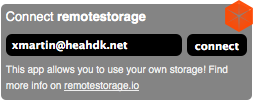
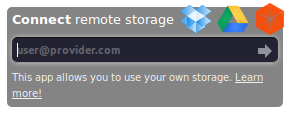
corrections in episodes 6-8

diff --git a/adventures/7/Adding-remote-storage-to-unhosted-web-apps.html b/adventures/7/Adding-remote-storage-to-unhosted-web-apps.html
@@ -33,15 +33,16 @@
         <a href="http://remotestorage.io/">remoteStorage</a>, a protocol for allowing unhosted web apps to use
         your personal server as cloud storage.</p>
       <p>The protocol by which a client interacts with a remoteStorage server is described in
-        <a href="https://tools.ietf.org/id/draft-dejong-remotestorage-01.txt">draft-dejong-remotestorage-01</a>,
-        an IETF Internet-Draft that is currently in version -01. At its core are the http protocol, TLS, and
+        <a href="https://tools.ietf.org/id/draft-dejong-remotestorage-03.txt">draft-dejong-remotestorage-03</a>,
+        an IETF Internet-Draft that is currently in version -03. At its core are the http protocol, TLS, and
         <a href="https://en.wikipedia.org/wiki/Cross-origin_resource_sharing">CORS headers</a>.</p>
       <p>A remoteStorage server allows you to store, retrieve, and remove documents in a directory structure,
         using http PUT, GET, and DELETE verbs, respectively. It will respond with
         CORS headers in the http response, so
         that your browser will not forbid your web app from making requests to the storage origin.</p>
       <p>As an app developer, you will not have to write these http requests yourself. You can use the
-        <a href="http://remotestorage.io/integrate/">remotestorage.js</a> library.</p>
+        <a href="http://remotestorage.io/integrate/">remotestorage.js</a> library (which now also has
+        experimental support for cross-origin Dropbox and GoogleDrive storage).</p>
       
       <h3>Reusing reusable user data</h3>
       <p>The remotestorage.js library is divided up into modules (documents, music, pictures, ...),
@@ -56,7 +57,8 @@
         so the part after the '#' sign. That means that the token is not even sent to the statics-server that happens to serve up the
         unhosted web app. Of course the app could contain code that does post the data there, but at least such token leaking would be
         detectable.</p>
-      <p>By default, OAuth requires each relying party to register with each service provider, and the remoteStorage spec states that
+      <p>By default, OAuth requires each relying party to register with each service provider, and the remoteStorage spec
+        <a href="http://tools.ietf.org/html/draft-dejong-remotestorage-03#page-10">states</a> that
         servers "MAY require the user to register applications as OAuth clients
         before first use", but in practice most remoteStorage servers allow their users full freedom in their choice of which apps to 
         connect with.</p>
@@ -83,10 +85,11 @@
         is then effectuated by calling a method in one of the remoteStorage modules. So far, nothing still has changed on the screen.</p>
       <p>If we were to completely follow the V-model, then the change would first move further down to the storage server, and then ripple
         all the way back up (in the shape of a letter V), until it reaches the actual DOM elements again, and updates their visual state.</p>
-      <p>But we want our apps to be responsive, even under bad network connections. In any case, waiting an entire http round-trip time before
+      <p>But we want our apps to be fast, even under bad network connections. In any case, waiting an entire http round-trip time before
         giving the user feedback about an action would generally take too long, even when the network conditions are good.</p>
       <p>This is why remoteStorage modules receive change events about outgoing changes at the moment the change travels out over the wire,
-        and not after the http request completes. We jokingly call this concept Asynchronous Synchronization: the app does not have to wait
+        and not after the http request completes. We jokingly call this concept
+        <a href="https://github.com/offlinefirst/research/issues/9">Asynchronous Synchronization</a>: the app does not have to wait
         for synchronization to finish; synchronization with the server happens asynchronously, in the background.</p>
       
       <h3>Two easy ways to connect at runtime</h3>
@@ -122,7 +125,7 @@
         <a href="https://github.com/michielbdejong/owncloud-owa">ownCloud</a>):</p>
       <img src="storage-first.png" />
       <h3>Featured apps</h3>
-      <p>The remotestorage.js library reached its first beta version (labeled 0.7.0) last week, and we have collected a number of
+      <p>The remotestorage.js library had just reached its first beta version (labeled 0.7.0) at the time of writing (it is now at version 0.10), and we have collected a number of
         <a href="https://unhosted.org/apps/">featured apps</a> that use this version of the library. So far, I am using the
         <a href="https://music-unhosted.5apps.com/">music</a>, <a href="https://editor-michiel.5apps.com/">editor</a> and
         <a href="https://grouptabs-xmartin.5apps.com/">grouptabs</a> apps for my real music-listening, text-editing, and peer-to-peer bookkeeping
@@ -133,7 +136,7 @@
         <a href="https://social-unhosted.5apps.com/">number</a> of
         <a href="https://todo-unhosted.5apps.com/">demo</a>
         <a href="http://myfavoritedrinks.5apps.com/">apps</a>. If you don't have a remoteStorage account yet, you can get one at
-        <a href="https://5apps.com/">5apps</a> or at <a href="https://heahdk.net/">heahdk</a>. For more options and more info
+        <a href="https://5apps.com/">5apps</a>. For more options and more info
         about remoteStorage in general, see <a href="http://remotestorage.io/">remotestorage.io</a>.</p>
       <p>After you have used the <a href="https://todo-unhosted.5apps.com">todo app</a> to add some tasks to your remote storage, try out the 
         <a href="http://shybyte.github.io/unhosted-time-tracker/">unhosted time tracker</a> app. You will see it retrieve your task list from

diff --git a/adventures/7/source.html b/adventures/7/source.html
@@ -7,15 +7,16 @@
         <a href="http://remotestorage.io/">remoteStorage</a>, a protocol for allowing unhosted web apps to use
         your personal server as cloud storage.</p>
       <p>The protocol by which a client interacts with a remoteStorage server is described in
-        <a href="https://tools.ietf.org/id/draft-dejong-remotestorage-01.txt">draft-dejong-remotestorage-01</a>,
-        an IETF Internet-Draft that is currently in version -01. At its core are the http protocol, TLS, and
+        <a href="https://tools.ietf.org/id/draft-dejong-remotestorage-03.txt">draft-dejong-remotestorage-03</a>,
+        an IETF Internet-Draft that is currently in version -03. At its core are the http protocol, TLS, and
         <a href="https://en.wikipedia.org/wiki/Cross-origin_resource_sharing">CORS headers</a>.</p>
       <p>A remoteStorage server allows you to store, retrieve, and remove documents in a directory structure,
         using http PUT, GET, and DELETE verbs, respectively. It will respond with
         CORS headers in the http response, so
         that your browser will not forbid your web app from making requests to the storage origin.</p>
       <p>As an app developer, you will not have to write these http requests yourself. You can use the
-        <a href="http://remotestorage.io/integrate/">remotestorage.js</a> library.</p>
+        <a href="http://remotestorage.io/integrate/">remotestorage.js</a> library (which now also has
+        experimental support for cross-origin Dropbox and GoogleDrive storage).</p>
       
       <h3>Reusing reusable user data</h3>
       <p>The remotestorage.js library is divided up into modules (documents, music, pictures, ...),
@@ -30,7 +31,8 @@
         so the part after the '#' sign. That means that the token is not even sent to the statics-server that happens to serve up the
         unhosted web app. Of course the app could contain code that does post the data there, but at least such token leaking would be
         detectable.</p>
-      <p>By default, OAuth requires each relying party to register with each service provider, and the remoteStorage spec states that
+      <p>By default, OAuth requires each relying party to register with each service provider, and the remoteStorage spec
+        <a href="http://tools.ietf.org/html/draft-dejong-remotestorage-03#page-10">states</a> that
         servers "MAY require the user to register applications as OAuth clients
         before first use", but in practice most remoteStorage servers allow their users full freedom in their choice of which apps to 
         connect with.</p>
@@ -57,10 +59,11 @@
         is then effectuated by calling a method in one of the remoteStorage modules. So far, nothing still has changed on the screen.</p>
       <p>If we were to completely follow the V-model, then the change would first move further down to the storage server, and then ripple
         all the way back up (in the shape of a letter V), until it reaches the actual DOM elements again, and updates their visual state.</p>
-      <p>But we want our apps to be responsive, even under bad network connections. In any case, waiting an entire http round-trip time before
+      <p>But we want our apps to be fast, even under bad network connections. In any case, waiting an entire http round-trip time before
         giving the user feedback about an action would generally take too long, even when the network conditions are good.</p>
       <p>This is why remoteStorage modules receive change events about outgoing changes at the moment the change travels out over the wire,
-        and not after the http request completes. We jokingly call this concept Asynchronous Synchronization: the app does not have to wait
+        and not after the http request completes. We jokingly call this concept
+        <a href="https://github.com/offlinefirst/research/issues/9">Asynchronous Synchronization</a>: the app does not have to wait
         for synchronization to finish; synchronization with the server happens asynchronously, in the background.</p>
       
       <h3>Two easy ways to connect at runtime</h3>
@@ -96,7 +99,7 @@
         <a href="https://github.com/michielbdejong/owncloud-owa">ownCloud</a>):</p>
       <img src="storage-first.png" />
       <h3>Featured apps</h3>
-      <p>The remotestorage.js library reached its first beta version (labeled 0.7.0) last week, and we have collected a number of
+      <p>The remotestorage.js library had just reached its first beta version (labeled 0.7.0) at the time of writing (it is now at version 0.10), and we have collected a number of
         <a href="https://unhosted.org/apps/">featured apps</a> that use this version of the library. So far, I am using the
         <a href="https://music-unhosted.5apps.com/">music</a>, <a href="https://editor-michiel.5apps.com/">editor</a> and
         <a href="https://grouptabs-xmartin.5apps.com/">grouptabs</a> apps for my real music-listening, text-editing, and peer-to-peer bookkeeping
@@ -107,7 +110,7 @@
         <a href="https://social-unhosted.5apps.com/">number</a> of
         <a href="https://todo-unhosted.5apps.com/">demo</a>
         <a href="http://myfavoritedrinks.5apps.com/">apps</a>. If you don't have a remoteStorage account yet, you can get one at
-        <a href="https://5apps.com/">5apps</a> or at <a href="https://heahdk.net/">heahdk</a>. For more options and more info
+        <a href="https://5apps.com/">5apps</a>. For more options and more info
         about remoteStorage in general, see <a href="http://remotestorage.io/">remotestorage.io</a>.</p>
       <p>After you have used the <a href="https://todo-unhosted.5apps.com">todo app</a> to add some tasks to your remote storage, try out the 
         <a href="http://shybyte.github.io/unhosted-time-tracker/">unhosted time tracker</a> app. You will see it retrieve your task list from

diff --git a/adventures/8/Collecting-and-organizing-your-data.html b/adventures/8/Collecting-and-organizing-your-data.html
@@ -102,7 +102,8 @@ server. At some point we will probably want to build publishing apps that connec
 To make your data available through a remoteStorage API, install one of the remoteStorage-compatible personal data servers listed under 'host your own storage'
   on <a href="http://remotestorage.io/get/">remotestorage.io/get/</a>. I went for the ownCloud one here, because (like the php-remoteStorage one) it maps data
   directly onto the filesystem (it
-uses extended attributes to store the Content-Types). This means you can just import data onto your remoteStorage account by copying it onto your
+uses extended attributes to store the Content-Types). Nowadays you would probably go for
+<a href="https://github.com/jcoglan/restore">reStore</a> instead, because it's easier to get working. If you just want to get started quickly with remoteStorage, try the <a href="https://github.com/remotestorage/starter-kit">starter-kit</a>. This means you can just import data onto your remoteStorage account by copying it onto your
   remoteStorage-stick. Do make sure your remoteStorage-stick is formatted with a filesystem that supports extended file attributes.</p>
 
 <h3>Export your data from Google, Facebook and Twitter</h3>
@@ -133,7 +134,7 @@ uses extended attributes to store the Content-Types). This means you can just im
   alert(screenNames);
 </code></pre>
 <p>Do make sure you scroll down first to get all the accounts in view.
-  You could also go through the api of course (see <a href="../5/Facebook-and-Twitter-from-nodejs.html">episode 5</a>).</p>
+  You could also go through the api of course (see <a href="../5/Facebook-and-Twitter-from-nodejs.html">episode 5</a>), and nowadays Twitter also lets you download a zip file from the <a href="https://twitter.com/settings/account">account settings</a>.</p>
 
   <h3>Converting your data to web-ready format</h3>
   <p>Although you probably want to keep the originals as well, it makes sense to convert all your photos to a 50Kb "web size". If
@@ -162,7 +163,8 @@ uses extended attributes to store the Content-Types). This means you can just im
   
   <h3>Playing your music through your browser</h3>
   <p>If you're setting up your remoteStorage server to serve your music files, then make sure you put them under <code>/public/music/</code> on your
-    remoteStorage, so you can use François' <a href="https://music-unhosted.5apps.com/">Unhosted Music Player</a>. Otherwise, you can also use <code>file:///</code>
+    remoteStorage, so you can use François' <a href="https://music-unhosted.5apps.com/">Unhosted Music Player</a>. Otherwise,
+you can also store your music in IndexedDB using Mozilla's <a href="http://mozilla.github.io/localForage/#setitem">localForage</a> library, or use <code>file:///</code>
     URLs to play your music. In the folder containing the files, simply add an html file that acts as a playlist app for them:
 <pre><code>
 &lt;!DOCTYPE html>
@@ -214,7 +216,7 @@ uses extended attributes to store the Content-Types). This means you can just im
   photo album designs. You can create photo albums that mix videos in them, using the html5 <code>&lt;video></code> tag,
   and even add css animations, svg graphics, 3D effects, and interactive navigation features to your photo albums and 
   souvenir scrapbooks. Maybe 
-  even some make some sound recordings when you are on holiday, and add them into a your next
+  even make some sound recordings when you are on holiday, and add them into your next
   "photo album".</p>
 <p>I also found that so far, it has been far more important to me to have all my imported contacts in <em>some</em> format
   on my remoteStorage, even if it is just a text file that I search through with Ctrl-F, than to necessarily have a polished

diff --git a/adventures/8/source.html b/adventures/8/source.html
@@ -76,7 +76,8 @@ server. At some point we will probably want to build publishing apps that connec
 To make your data available through a remoteStorage API, install one of the remoteStorage-compatible personal data servers listed under 'host your own storage'
   on <a href="http://remotestorage.io/get/">remotestorage.io/get/</a>. I went for the ownCloud one here, because (like the php-remoteStorage one) it maps data
   directly onto the filesystem (it
-uses extended attributes to store the Content-Types). This means you can just import data onto your remoteStorage account by copying it onto your
+uses extended attributes to store the Content-Types). Nowadays you would probably go for
+<a href="https://github.com/jcoglan/restore">reStore</a> instead, because it's easier to get working. If you just want to get started quickly with remoteStorage, try the <a href="https://github.com/remotestorage/starter-kit">starter-kit</a>. This means you can just import data onto your remoteStorage account by copying it onto your
   remoteStorage-stick. Do make sure your remoteStorage-stick is formatted with a filesystem that supports extended file attributes.</p>
 
 <h3>Export your data from Google, Facebook and Twitter</h3>
@@ -107,7 +108,7 @@ uses extended attributes to store the Content-Types). This means you can just im
   alert(screenNames);
 </code></pre>
 <p>Do make sure you scroll down first to get all the accounts in view.
-  You could also go through the api of course (see <a href="../5/Facebook-and-Twitter-from-nodejs.html">episode 5</a>).</p>
+  You could also go through the api of course (see <a href="../5/Facebook-and-Twitter-from-nodejs.html">episode 5</a>), and nowadays Twitter also lets you download a zip file from the <a href="https://twitter.com/settings/account">account settings</a>.</p>
 
   <h3>Converting your data to web-ready format</h3>
   <p>Although you probably want to keep the originals as well, it makes sense to convert all your photos to a 50Kb "web size". If
@@ -136,7 +137,8 @@ uses extended attributes to store the Content-Types). This means you can just im
   
   <h3>Playing your music through your browser</h3>
   <p>If you're setting up your remoteStorage server to serve your music files, then make sure you put them under <code>/public/music/</code> on your
-    remoteStorage, so you can use François' <a href="https://music-unhosted.5apps.com/">Unhosted Music Player</a>. Otherwise, you can also use <code>file:///</code>
+    remoteStorage, so you can use François' <a href="https://music-unhosted.5apps.com/">Unhosted Music Player</a>. Otherwise,
+you can also store your music in IndexedDB using Mozilla's <a href="http://mozilla.github.io/localForage/#setitem">localForage</a> library, or use <code>file:///</code>
     URLs to play your music. In the folder containing the files, simply add an html file that acts as a playlist app for them:
 <pre><code>
 &lt;!DOCTYPE html>
@@ -188,7 +190,7 @@ uses extended attributes to store the Content-Types). This means you can just im
   photo album designs. You can create photo albums that mix videos in them, using the html5 <code>&lt;video></code> tag,
   and even add css animations, svg graphics, 3D effects, and interactive navigation features to your photo albums and 
   souvenir scrapbooks. Maybe 
-  even some make some sound recordings when you are on holiday, and add them into a your next
+  even make some sound recordings when you are on holiday, and add them into your next
   "photo album".</p>
 <p>I also found that so far, it has been far more important to me to have all my imported contacts in <em>some</em> format
   on my remoteStorage, even if it is just a text file that I search through with Ctrl-F, than to necessarily have a polished

diff --git a/adventures/6/Controlling-your-server-over-a-WebSocket.html b/adventures/6/Controlling-your-server-over-a-WebSocket.html
@@ -76,7 +76,7 @@
         the request. That way, it's easy to write modules for Sockethub almost like writing a plugin for something. And finally, the <code>verb</code> determines which
         other fields are required or optional. Some verbs may only exist for one specific platform, but others, like 'post', make sense for multiple platforms, so 
         their format is defined only once, in a platform-independent way wherever possible.</p>
-      <p>For executing shell commands, we will define a 'shell' platform that exposes an 'execute' verb. The way to do this in Sockethub is by adding a file called
+      <p>For executing shell commands, we will define a 'shell' platform that exposes an 'execute' verb. The way to do this in Sockethub is described in the <a href="https://github.com/sockethub/sockethub/blob/master/doc/adding_a_platform.md">instructions for adding a platform</a>. The API has changed a little bit now, but at the time of writing, this meant adding a file called
         <code>shell.js</code> into the <code>lib/protocols/sockethub/platforms/</code> folder of the Sockethub source tree, with the following content:</p>
 <pre><code>
 var https = require('https'),
@@ -113,7 +113,7 @@ module.exports = {
   ...
 </code></pre>
       <h3>Conclusion</h3>
-      <p>Sockethub is still only a week old as a project, but it promises to be a very useful basis for many of the gateway functionalities we want to open up to
+      <p>Sockethub was still only a week old when I wrote this episode in January 2013, but it promises to be a very useful basis for many of the gateway functionalities we want to open up to
         unhosted web apps, such as access to email, social network platforms, news feeds, bittorrent, and any other platforms that expose server-to-server APIs, but 
         are not directly accessible for unhosted web apps via a public cross-origin interface.</p>
       <p>Especially the combination of Sockethub with <a href="http://remotestorage.io/">remoteStorage</a> and a web runtime like for instance Firefox OS looks

diff --git a/adventures/6/source.html b/adventures/6/source.html
@@ -50,7 +50,7 @@
         the request. That way, it's easy to write modules for Sockethub almost like writing a plugin for something. And finally, the <code>verb</code> determines which
         other fields are required or optional. Some verbs may only exist for one specific platform, but others, like 'post', make sense for multiple platforms, so 
         their format is defined only once, in a platform-independent way wherever possible.</p>
-      <p>For executing shell commands, we will define a 'shell' platform that exposes an 'execute' verb. The way to do this in Sockethub is by adding a file called
+      <p>For executing shell commands, we will define a 'shell' platform that exposes an 'execute' verb. The way to do this in Sockethub is described in the <a href="https://github.com/sockethub/sockethub/blob/master/doc/adding_a_platform.md">instructions for adding a platform</a>. The API has changed a little bit now, but at the time of writing, this meant adding a file called
         <code>shell.js</code> into the <code>lib/protocols/sockethub/platforms/</code> folder of the Sockethub source tree, with the following content:</p>
 <pre><code>
 var https = require('https'),
@@ -87,7 +87,7 @@ module.exports = {
   ...
 </code></pre>
       <h3>Conclusion</h3>
-      <p>Sockethub is still only a week old as a project, but it promises to be a very useful basis for many of the gateway functionalities we want to open up to
+      <p>Sockethub was still only a week old when I wrote this episode in January 2013, but it promises to be a very useful basis for many of the gateway functionalities we want to open up to
         unhosted web apps, such as access to email, social network platforms, news feeds, bittorrent, and any other platforms that expose server-to-server APIs, but 
         are not directly accessible for unhosted web apps via a public cross-origin interface.</p>
       <p>Especially the combination of Sockethub with <a href="http://remotestorage.io/">remoteStorage</a> and a web runtime like for instance Firefox OS looks
